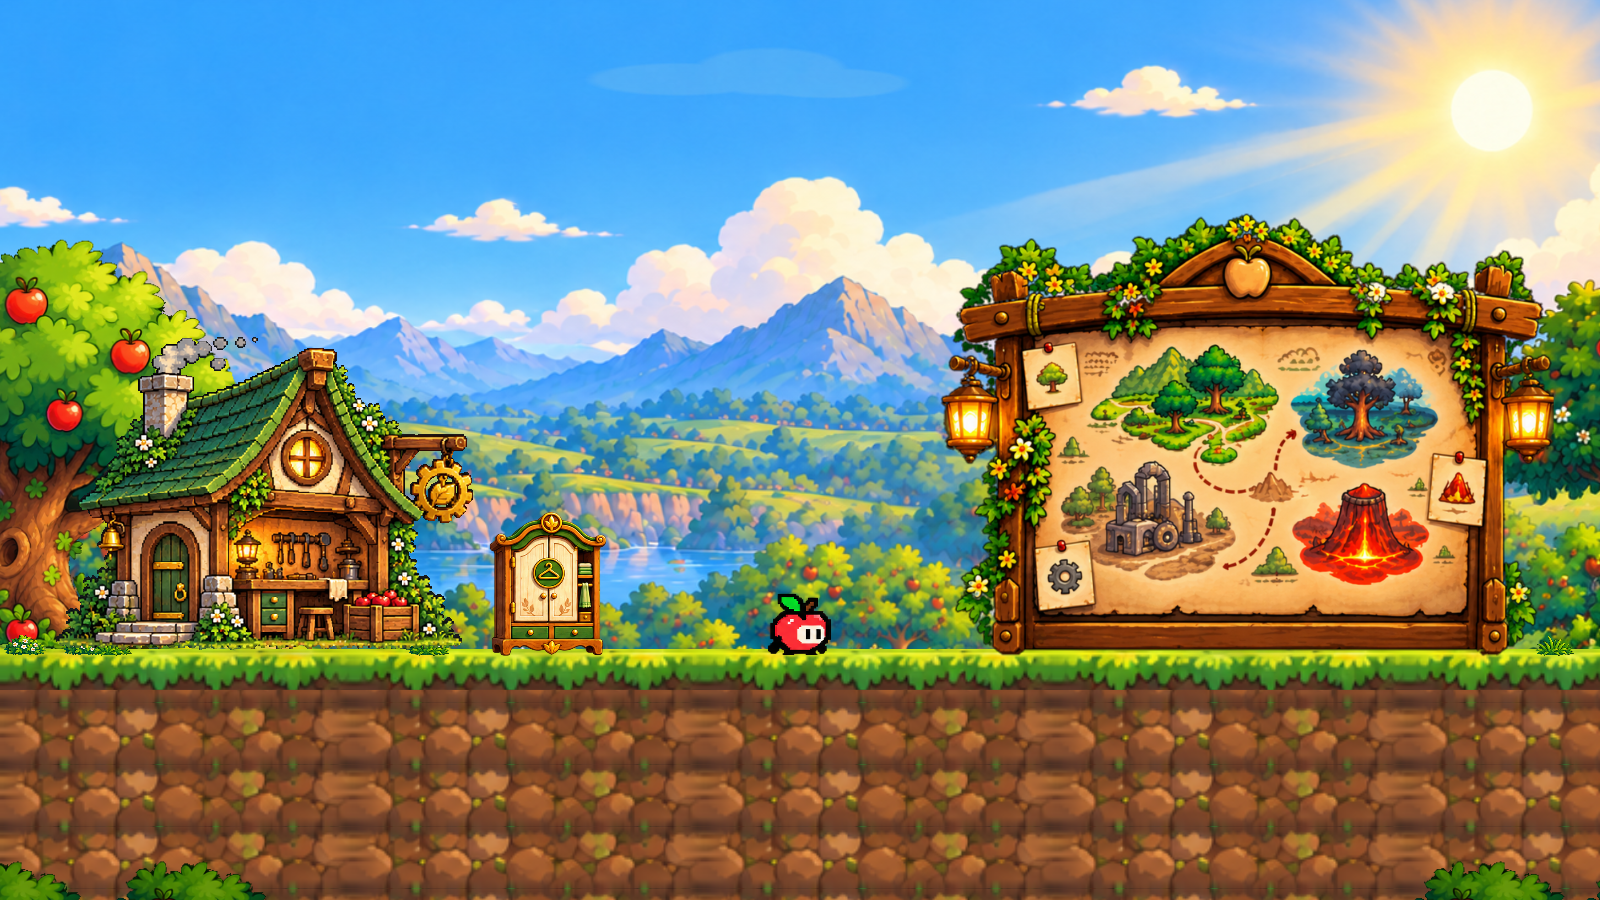
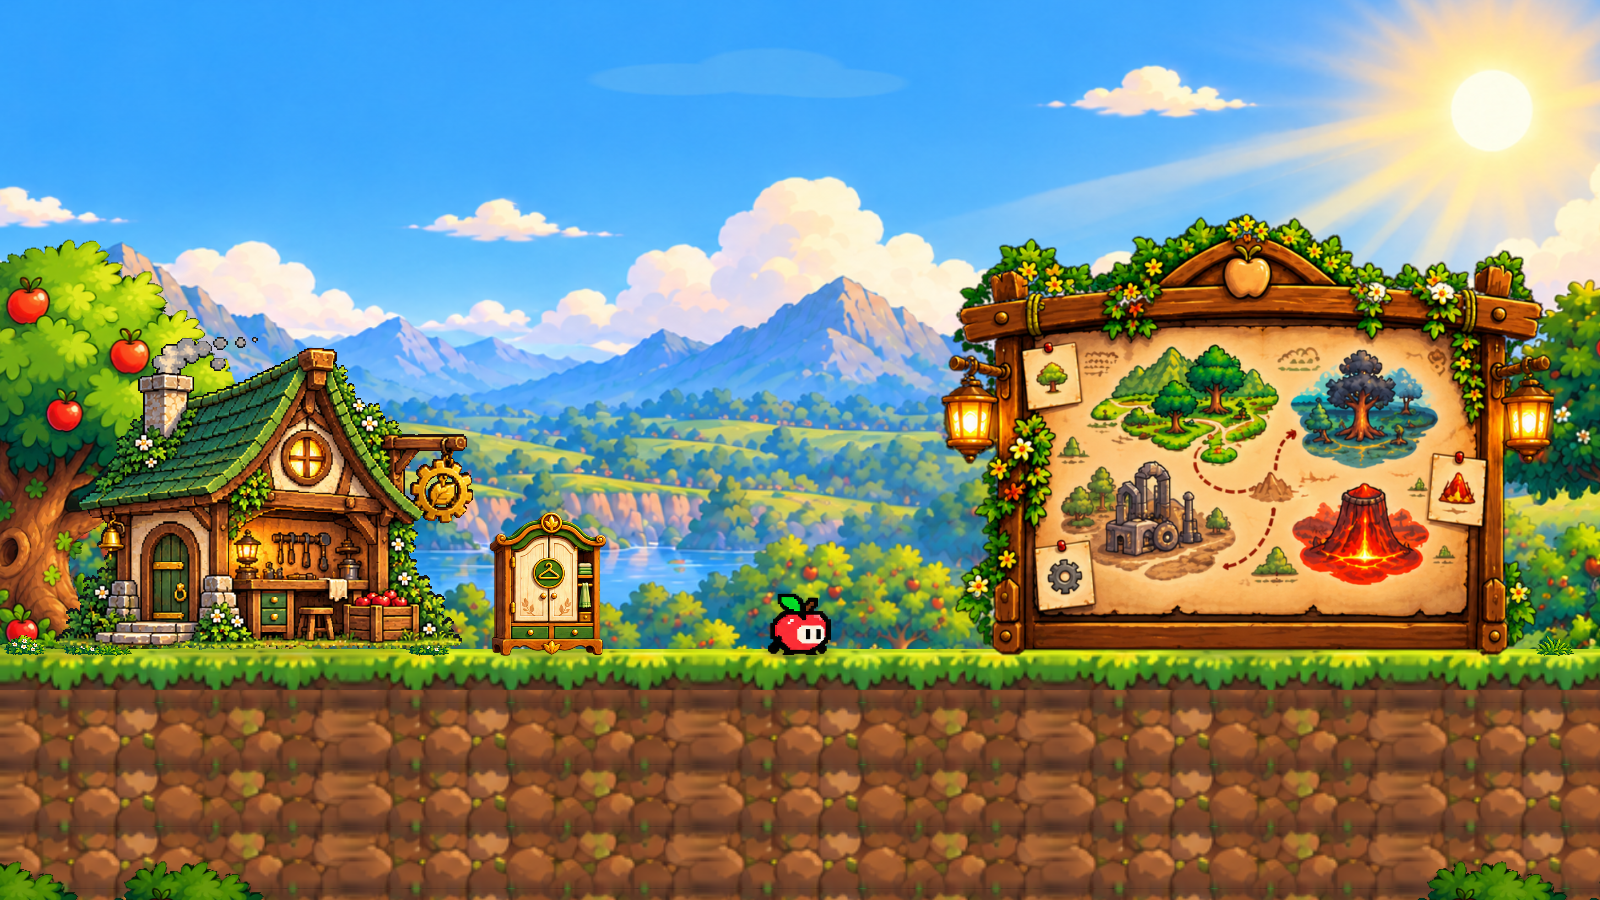
fix: make hub wind and contact shadows visible

diff --git a/Assets/_Trapple/Editor/LivingEnvironmentBuilder.cs b/Assets/_Trapple/Editor/LivingEnvironmentBuilder.cs
@@ -74,6 +74,85 @@ namespace Trapple.Editor
             File.WriteAllText(Review + "Integration.txt", "PASS: installed twice; identical scene serialization; no missing references; collider and interaction invariants intact.\n");
         }
 
+        [MenuItem("Trapple/Hub/Refresh Wind and Shadow Visibility")]
+        public static void RefreshVisibility()
+        {
+            if (EditorApplication.isPlayingOrWillChangePlaymode) throw new InvalidOperationException("Stop Play Mode first.");
+            var scene = SceneManager.GetActiveScene();
+            if (scene.path != HubSceneFlowController.HubScenePath)
+                throw new InvalidOperationException("Open the Hub scene before refreshing its effects.");
+            var colliders = Components<Collider2D>(scene).ToDictionary(item => item,
+                item => EditorJsonUtility.ToJson(item) + EditorJsonUtility.ToJson(item.transform));
+            ContactMaterial();
+            UpgradePrefabVisibility();
+            UpgradeVisibility(scene.GetRootGameObjects());
+            Validate(scene);
+            foreach (var pair in colliders)
+                if (pair.Value != EditorJsonUtility.ToJson(pair.Key) + EditorJsonUtility.ToJson(pair.Key.transform))
+                    throw new InvalidOperationException("Visibility refresh changed collision.");
+            if (!EditorSceneManager.SaveScene(scene)) throw new InvalidOperationException("Could not save refreshed Hub.");
+            AssetDatabase.SaveAssets();
+            Debug.Log("LIVING ENVIRONMENT VISIBILITY PASS: visible foliage motion and broad soft contact shadows; scene layout preserved.");
+        }
+
+        public static void RefreshVisibilityAndVerify()
+        {
+            EditorSceneManager.OpenScene(HubSceneFlowController.HubScenePath, OpenSceneMode.Single);
+            RefreshVisibility();
+            string first = File.ReadAllText(HubSceneFlowController.HubScenePath);
+            RefreshVisibility();
+            if (first != File.ReadAllText(HubSceneFlowController.HubScenePath))
+                throw new InvalidOperationException("Visibility refresh is not idempotent.");
+        }
+
+        private static Material ContactMaterial()
+        {
+            var material = Material("ContactShadow", "Trapple/Sprites/Environment Contact Shadow");
+            var sprite = Sprite("Assets/_Trapple/Art/Hub/Glow.png");
+            Rect rect = sprite.textureRect;
+            material.SetVector("_SpriteUV", new Vector4(rect.x / sprite.texture.width, rect.y / sprite.texture.height,
+                rect.width / sprite.texture.width, rect.height / sprite.texture.height));
+            EditorUtility.SetDirty(material);
+            return material;
+        }
+
+        private static void UpgradePrefabVisibility()
+        {
+            if (AssetDatabase.LoadAssetAtPath<GameObject>(PrefabPath) == null) return;
+            var contents = PrefabUtility.LoadPrefabContents(PrefabPath);
+            try { UpgradeVisibility(new[] { contents }); PrefabUtility.SaveAsPrefabAsset(contents, PrefabPath); }
+            finally { PrefabUtility.UnloadPrefabContents(contents); }
+        }
+
+        private static void UpgradeVisibility(IEnumerable<GameObject> roots)
+        {
+            var material = AssetDatabase.LoadAssetAtPath<Material>(MaterialRoot + "ContactShadow.mat");
+            foreach (var root in roots)
+            {
+                foreach (var wind in root.GetComponentsInChildren<EnvironmentWindController>(true))
+                {
+                    var data = new SerializedObject(wind);
+                    data.FindProperty("strength").floatValue = wind.name == "Apple tree frame" ? .018f :
+                        wind.name == "Meadow flowers" ? .03f : wind.name == "Low foreground foliage" ? .016f : .035f;
+                    data.ApplyModifiedPropertiesWithoutUndo(); Record(wind);
+                }
+                foreach (var shadow in root.GetComponentsInChildren<AppiGroundShadow>(true))
+                {
+                    var data = new SerializedObject(shadow);
+                    data.FindProperty("groundedSize").vector2Value = new Vector2(1.25f, .23f);
+                    data.FindProperty("airborneSize").vector2Value = new Vector2(.85f, .29f);
+                    data.FindProperty("groundedOpacity").floatValue = .44f;
+                    data.FindProperty("airborneOpacity").floatValue = .09f;
+                    data.ApplyModifiedPropertiesWithoutUndo(); Record(shadow);
+                    var renderer = shadow.GetComponent<SpriteRenderer>();
+                    renderer.sharedMaterial = material; Record(renderer);
+                }
+                foreach (var renderer in root.GetComponentsInChildren<SpriteRenderer>(true))
+                    if (renderer.name.EndsWith(" contact", StringComparison.Ordinal))
+                    { renderer.sharedMaterial = material; Record(renderer); }
+            }
+        }
+
         private static T[] Components<T>(Scene scene) where T : Component => scene.GetRootGameObjects()
             .SelectMany(root => root.GetComponentsInChildren<T>(true)).ToArray();
         private static Sprite Sprite(string path) => AssetDatabase.LoadAllAssetsAtPath(path).OfType<Sprite>().FirstOrDefault()
@@ -102,7 +181,9 @@ namespace Trapple.Editor
         private static Material Material(string file, string shaderName)
         {
             var shader = Shader.Find(shaderName);
-            if (shader == null || ShaderUtil.ShaderHasError(shader)) throw new InvalidOperationException("Shader failed: " + shaderName);
+            if (shader == null) throw new InvalidOperationException("Shader missing: " + shaderName);
+            if (ShaderUtil.ShaderHasError(shader)) throw new InvalidOperationException("Shader failed: " + shaderName + "\n" +
+                string.Join("\n", ShaderUtil.GetShaderMessages(shader).Select(item => item.message)));
             var material = AssetDatabase.LoadAssetAtPath<Material>(MaterialRoot + file + ".mat");
             if (material == null) { material = new Material(shader); AssetDatabase.CreateAsset(material, MaterialRoot + file + ".mat"); }
             return material;
@@ -113,12 +194,13 @@ namespace Trapple.Editor
             Directory.CreateDirectory(MaterialRoot); Directory.CreateDirectory(ParticleRoot); AssetDatabase.Refresh();
             Material("FoliageWind", "Trapple/Sprites/Environment Wind");
             Material("LakeShimmer", "Trapple/Sprites/Environment Water Shimmer");
-            // Shared premultiplied sprite material for all contact shadows, clouds, particles and halos.
+            // Clouds, particles and halos retain the original glow; shadows use their own footprint.
             Material("SoftSprites", "Sprites/Default");
+            ContactMaterial();
             Particle("LeafParticle", Sprite("Assets/_Trapple/Art/Hub/Leaf.png"), new Vector2(.14f, .07f), Color.white, 7);
             Particle("PollenParticle", Sprite("Assets/_Trapple/Art/Hub/Glow.png"), Vector2.one * .065f, new Color(1, .91f, .55f), 7);
             Particle("SmokeParticle", Sprite("Assets/_Trapple/Art/Hub/Glow.png"), Vector2.one * .45f, new Color(.76f, .79f, .78f), 7);
-            if (AssetDatabase.LoadAssetAtPath<GameObject>(PrefabPath) != null) return;
+            if (AssetDatabase.LoadAssetAtPath<GameObject>(PrefabPath) != null) { UpgradePrefabVisibility(); return; }
             var root = new GameObject(Name);
             try
             {
@@ -137,10 +219,10 @@ namespace Trapple.Editor
                     var grass = Visual("Independent meadow grass", root.transform,
                         Sprite("Assets/_Trapple/Resources/AppleMeadow/Grass.png"), new Vector2(x, .14f),
                         new Vector2(.65f, .32f), 4, Color.white, AssetDatabase.LoadAssetAtPath<Material>(MaterialRoot + "FoliageWind.mat"));
-                    grass.gameObject.AddComponent<EnvironmentWindController>().Configure(.007f, .18f, x * 2.37f);
+                    grass.gameObject.AddComponent<EnvironmentWindController>().Configure(.035f, .18f, x * 2.37f);
                 }
-                var shadow = Visual("Appi ground shadow", root.transform, glow, Vector2.zero, new Vector2(.85f, .14f), 8,
-                    new Color(.16f, .24f, .18f, .3f), soft);
+                var shadow = Visual("Appi ground shadow", root.transform, glow, Vector2.zero, new Vector2(1.25f, .23f), 8,
+                    new Color(.16f, .24f, .18f, .44f), AssetDatabase.LoadAssetAtPath<Material>(MaterialRoot + "ContactShadow.mat"));
                 shadow.gameObject.AddComponent<AppiGroundShadow>();
                 Array(master, "foliage", root.GetComponentsInChildren<EnvironmentWindController>());
                 Array(master, "cloudLayers", root.GetComponentsInChildren<ParallaxLayer>());
@@ -191,7 +273,7 @@ namespace Trapple.Editor
                 renderer.sharedMaterial = foliageMaterial; Record(renderer);
                 var wind = renderer.GetComponent<EnvironmentWindController>() ?? renderer.gameObject.AddComponent<EnvironmentWindController>();
                 bool tree = renderer.name == "Apple tree frame";
-                wind.Configure(tree ? .0018f : .004f, tree ? .62f : .22f, renderer.transform.position.x * 2.37f);
+                wind.Configure(tree ? .018f : .016f, tree ? .62f : .22f, renderer.transform.position.x * 2.37f);
                 Record(wind);
             }
             var scenery = art.GetComponentsInChildren<SpriteRenderer>().Single(item => item.name == "Apple Meadow scenery");
@@ -227,6 +309,7 @@ namespace Trapple.Editor
             Array(master, "lights", environment.GetComponentsInChildren<LightFlicker2D>());
             Array(master, "staticShadows", environment.GetComponentsInChildren<SpriteRenderer>().Where(item => item.name.EndsWith(" contact", StringComparison.Ordinal)));
             Set(master, "water", water); Set(master, "playerShadow", shadow);
+            UpgradeVisibility(scene.GetRootGameObjects());
         }
 
         // Normalized source image coordinates, top-left origin; preserves authored facade scale.

diff --git a/Assets/_Trapple/Tests/PlayMode/LivingEnvironmentTests.cs b/Assets/_Trapple/Tests/PlayMode/LivingEnvironmentTests.cs
@@ -192,6 +192,85 @@ namespace Trapple.Tests
         }
 
         [UnityTest]
+        public IEnumerator GroundShadowIsVisibleAroundAppiAtGameplayScale()
+        {
+            if (SystemInfo.graphicsDeviceType == UnityEngine.Rendering.GraphicsDeviceType.Null) Assert.Ignore("Graphics required.");
+            environment.SetEffectsEnabled(false);
+            player.GetComponent<PlayerSpriteAnimator>().enabled = false;
+            var camera = Camera.main;
+            camera.GetComponent<HubCameraController>().enabled = false;
+            shadow.enabled = true; shadow.Refresh();
+            Color32[] withShadow = ReadPixels(camera, 1600, 900);
+            shadow.Presentation.enabled = false;
+            Color32[] withoutShadow = ReadPixels(camera, 1600, 900);
+            int visible = 0, strongest = 0;
+            for (int i = 0; i < withShadow.Length; i++)
+            {
+                int darkening = (withoutShadow[i].r + withoutShadow[i].g + withoutShadow[i].b -
+                    withShadow[i].r - withShadow[i].g - withShadow[i].b) / 3;
+                if (darkening >= 10) visible++;
+                strongest = Mathf.Max(strongest, darkening);
+            }
+            Debug.Log("CONTACT SHADOW VISIBILITY: exposed pixels=" + visible + ", max darkening=" + strongest + "/255 at 1600x900.");
+            Assert.That(visible, Is.GreaterThan(80), "The shadow must remain visible after Appi covers its center.");
+            Assert.That(strongest, Is.GreaterThan(20), "A technically enabled but imperceptible shadow is insufficient.");
+            yield return null;
+        }
+
+        [UnityTest]
+        public IEnumerator AuthoredWindMovesCanopyByVisiblePixelsAtGameplayScale()
+        {
+            if (SystemInfo.graphicsDeviceType == UnityEngine.Rendering.GraphicsDeviceType.Null) Assert.Ignore("Graphics required.");
+            var tree = Object.FindObjectsByType<EnvironmentWindController>().Single(item => item.name == "Apple tree frame").GetComponent<SpriteRenderer>();
+            var actor = new GameObject("Wind visibility render", typeof(SpriteRenderer));
+            var cameraObject = new GameObject("Wind visibility camera", typeof(Camera));
+            try
+            {
+                actor.transform.position = new Vector3(1000, 1000, 0); actor.transform.localScale = tree.transform.lossyScale;
+                var renderer = actor.GetComponent<SpriteRenderer>(); renderer.sprite = tree.sprite; renderer.sharedMaterial = tree.sharedMaterial;
+                var properties = new MaterialPropertyBlock(); tree.GetPropertyBlock(properties);
+                Vector4 wind = properties.GetVector("_Wind"); wind.x = 0; wind.w = 0;
+                properties.SetVector("_Wind", wind); renderer.SetPropertyBlock(properties);
+                var camera = cameraObject.GetComponent<Camera>(); camera.enabled = false;
+                camera.transform.position = new Vector3(1000, 1000, -10); camera.orthographic = true;
+                // A square crop with exactly the same pixels per world unit as the actual 900p Hub.
+                camera.orthographicSize = Camera.main.orthographicSize * 512f / 900f;
+                camera.clearFlags = CameraClearFlags.SolidColor; camera.backgroundColor = new Color(.1f, .12f, .15f);
+                Color32[] first = ReadPixels(camera, 512, 512);
+                wind.w = Mathf.PI; properties.SetVector("_Wind", wind); renderer.SetPropertyBlock(properties);
+                Color32[] second = ReadPixels(camera, 512, 512);
+                Bounds bounds = renderer.bounds;
+                int left = Mathf.RoundToInt(camera.WorldToViewportPoint(bounds.min + Vector3.right * bounds.size.x * .2f).x * 512);
+                int right = Mathf.RoundToInt(camera.WorldToViewportPoint(bounds.min + Vector3.right * bounds.size.x * .8f).x * 512);
+                int bottom = Mathf.RoundToInt(camera.WorldToViewportPoint(bounds.min + Vector3.up * bounds.size.y * .77f).y * 512);
+                int top = Mathf.RoundToInt(camera.WorldToViewportPoint(bounds.min + Vector3.up * bounds.size.y * .92f).y * 512);
+                int visibleRows = 0, maxShift = 0;
+                for (int y = Mathf.Max(0, bottom); y <= Mathf.Min(511, top); y++)
+                {
+                    long bestError = long.MaxValue; int bestShift = 0;
+                    // Rendered-image correlation measures actual movement, not just a configured float.
+                    for (int shift = -16; shift <= 16; shift++)
+                    {
+                        long error = 0;
+                        for (int x = Mathf.Max(16, left); x <= Mathf.Min(495, right); x++)
+                        {
+                            Color32 a = first[y * 512 + x], b = second[y * 512 + x + shift];
+                            error += Mathf.Abs(a.r - b.r) + Mathf.Abs(a.g - b.g) + Mathf.Abs(a.b - b.b);
+                        }
+                        if (error < bestError || error == bestError && Mathf.Abs(shift) < Mathf.Abs(bestShift))
+                        { bestError = error; bestShift = shift; }
+                    }
+                    if (Mathf.Abs(bestShift) >= 2) visibleRows++;
+                    maxShift = Mathf.Max(maxShift, Mathf.Abs(bestShift));
+                }
+                Debug.Log("WIND VISIBILITY: canopy rows moving >=2 pixels=" + visibleRows + ", max shift=" + maxShift + " at 900p Hub scale.");
+                Assert.That(visibleRows, Is.GreaterThanOrEqualTo(12), "Authored wind should be visible at gameplay scale, not only at exaggerated test strength.");
+            }
+            finally { Object.Destroy(actor); Object.Destroy(cameraObject); }
+            yield return null;
+        }
+
+        [UnityTest]
         public IEnumerator CaptureEnvironmentInPlayMode()
         {
             if (SystemInfo.graphicsDeviceType == UnityEngine.Rendering.GraphicsDeviceType.Null) Assert.Ignore("A graphics device is required for visual QA.");
@@ -218,6 +297,25 @@ namespace Trapple.Tests
                 camera.targetTexture = target; camera.Render(); RenderTexture.active = target;
                 texture.ReadPixels(new Rect(0, 0, 1600, 900), 0, 0); texture.Apply();
                 File.WriteAllBytes("Builds/EnvironmentReview/" + name + ".png", texture.EncodeToPNG());
+            }
+            finally
+            {
+                camera.targetTexture = previous; RenderTexture.active = active;
+                target.Release(); Object.Destroy(target); Object.Destroy(texture);
+            }
+        }
+
+        private static Color32[] ReadPixels(Camera camera, int width, int height)
+        {
+            var previous = camera.targetTexture;
+            var active = RenderTexture.active;
+            var target = new RenderTexture(width, height, 24);
+            var texture = new Texture2D(width, height, TextureFormat.RGB24, false);
+            try
+            {
+                camera.targetTexture = target; camera.Render(); RenderTexture.active = target;
+                texture.ReadPixels(new Rect(0, 0, width, height), 0, 0); texture.Apply();
+                return texture.GetPixels32();
             }
             finally
             {

diff --git a/Assets/_Trapple/Scripts/Hub/Environment/AppiGroundShadow.cs b/Assets/_Trapple/Scripts/Hub/Environment/AppiGroundShadow.cs
@@ -9,10 +9,10 @@ namespace Trapple.Hub.LivingEnvironment
         [SerializeField] private SpriteRenderer characterArt;
         [SerializeField] private LayerMask groundLayers = 1 << 6;
         [SerializeField, Min(.1f)] private float maxDistance = 5f;
-        [SerializeField] private Vector2 groundedSize = new Vector2(.85f, .14f);
-        [SerializeField] private Vector2 airborneSize = new Vector2(.65f, .23f);
-        [SerializeField, Range(0f, 1f)] private float groundedOpacity = .3f;
-        [SerializeField, Range(0f, 1f)] private float airborneOpacity = .06f;
+        [SerializeField] private Vector2 groundedSize = new Vector2(1.25f, .23f);
+        [SerializeField] private Vector2 airborneSize = new Vector2(.85f, .29f);
+        [SerializeField, Range(0f, 1f)] private float groundedOpacity = .44f;
+        [SerializeField, Range(0f, 1f)] private float airborneOpacity = .09f;
         [SerializeField, Min(.1f)] private float fadeHeight = 2.8f;
         [SerializeField, Min(.001f)] private float surfaceOffset = .025f;
         private readonly RaycastHit2D[] hits = new RaycastHit2D[12];

diff --git a/Assets/_Trapple/Tests/EditMode/LivingEnvironmentShaderTests.cs b/Assets/_Trapple/Tests/EditMode/LivingEnvironmentShaderTests.cs
@@ -10,7 +10,7 @@ namespace Trapple.Tests
         [Test]
         public void SavedMaterialsUseSupportedBuiltInShadersAndParticlePrefabsHaveNoCollision()
         {
-            foreach (string name in new[] { "FoliageWind", "LakeShimmer", "SoftSprites" })
+            foreach (string name in new[] { "FoliageWind", "LakeShimmer", "SoftSprites", "ContactShadow" })
             {
                 var material = AssetDatabase.LoadAssetAtPath<Material>("Assets/_Trapple/Art/Hub/Environment/" + name + ".mat");
                 Assert.That(material, Is.Not.Null);

diff --git a/Assets/_Trapple/Scripts/Hub/Environment/EnvironmentWindController.cs b/Assets/_Trapple/Scripts/Hub/Environment/EnvironmentWindController.cs
@@ -7,7 +7,7 @@ namespace Trapple.Hub.LivingEnvironment
     public sealed class EnvironmentWindController : MonoBehaviour
     {
         [SerializeField, Min(0f)] private float speed = 1.2f;
-        [SerializeField, Range(0f, .02f)] private float strength = .004f;
+        [SerializeField, Range(0f, .05f)] private float strength = .018f;
         [SerializeField, Min(.01f)] private float frequency = 5f;
         [SerializeField] private float phase;
         [Tooltip("Normalized sprite height below which pixels stay fixed. Use .6 for a tree canopy.")]

diff --git a/Docs/LivingEnvironment.md b/Docs/LivingEnvironment.md
@@ -16,6 +16,11 @@ does not rebuild the Hub or write scene/prefab YAML. It refuses unsaved open sce
 and Play Mode. Run **Trapple → Hub → Install Living Environment** only to reinstall;
 the committed Hub is already configured.
 
+For an already-open Hub, **Trapple → Hub → Refresh Wind and Shadow Visibility**
+updates just the visual settings and the reusable system prefab through Unity's
+APIs. It preserves the current scene layout and checks collider invariants. Stop
+Play Mode and refresh Assets first when changing scripts externally.
+
 The scene audit found one orthographic camera (size 6.8), one `Default` sorting
 layer, the existing `HubCameraController`, `PlayerController`,
 `PlayerSpriteAnimator`, workshop transitions and map interactions. Existing
@@ -60,6 +65,9 @@ Select **Living Environment** in Hub:
   to zero at the left/right edges. These materials are for unatlased sprites;
   rotation/tight packing in a future Sprite Atlas would need a corresponding
   UV-space implementation before reuse.
+  Scene strengths are 0.018 for the tree, 0.016 for bushes, 0.03 for flowers and
+  0.035 for grass. The base mask is applied once; squaring it previously reduced
+  most canopy movement below a visible pixel at the Hub camera scale.
 - `ParallaxLayer` on each cloud: camera reference, Depth, Drift, Wrap Width.
   Depth 0 is infinitely distant and compensates camera movement fully; 1 is the
   gameplay plane. Distant objects consequently move less on screen.
@@ -71,6 +79,9 @@ Select **Living Environment** in Hub:
 - `AppiGroundShadow`: capsule and art references, Ground Layers, Max Distance,
   ground/air sizes and opacities, Fade Height and Surface Offset. The ray starts
   just above the feet so slightly embedded contacts still resolve correctly.
+  The contact material supplies a broad, soft ellipse instead of reusing the
+  lantern glow's rapidly fading alpha. Ground size is 1.25 × 0.23 units with
+  opacity 0.44; airborne size is 0.85 × 0.29 with opacity 0.09.
 - `EnvironmentWaterShimmer` on `Apple Meadow scenery`: Strength and Speed.
   `LakeShimmer.mat` exposes the conservative water UV rectangle.
 
@@ -86,11 +97,11 @@ Runtime scripts in `Assets/_Trapple/Scripts/Hub/Environment/`:
 - `EnvironmentWaterShimmer.cs`
 - `LivingEnvironmentController.cs`
 
-Shaders: `Assets/_Trapple/Shaders/EnvironmentWind.shader` and
-`EnvironmentWater.shader`.
+Shaders: `Assets/_Trapple/Shaders/EnvironmentWind.shader`,
+`EnvironmentWater.shader` and `EnvironmentContactShadow.shader`.
 
 Materials in `Assets/_Trapple/Art/Hub/Environment/`:
-`FoliageWind.mat`, `LakeShimmer.mat`, `SoftSprites.mat`.
+`FoliageWind.mat`, `LakeShimmer.mat`, `SoftSprites.mat`, `ContactShadow.mat`.
 
 Prefabs in `Assets/_Trapple/Prefabs/Hub/Environment/`:
 `LivingEnvironment.prefab`, `LeafParticle.prefab`, `PollenParticle.prefab`,
@@ -143,6 +154,16 @@ The commands use `-batchmode -force-d3d11 -runTests -testPlatform EditMode` or
 user's Unity Editor remained open. The local Hub retains the user's pre-existing
 map placement/scale overrides; those changes and the existing forest-scene edits
 are excluded from the feature commit.
+
+The visibility correction was additionally verified on **DirectX 12**, matching
+the user's open editor: **9/9 environment Play Mode tests** and **32/32 Edit Mode
+tests passed**. Two new render-based tests fail on the original presentation:
+the canopy had no rows moving by at least two pixels at 900p Hub scale, and Appi
+left only 10 visibly darkened shadow pixels, with a maximum change of 16/255.
+After correction, 64 canopy rows move by at least two pixels (maximum 9 pixels),
+and the shadow exposes 389 pixels with at least 10/255 darkening (maximum 54/255).
+The latter comparison renders the real character over the shadow, so a shadow
+hidden behind Appi cannot pass. Full evidence is in `Builds/VisibilityReview`.
 
 The scenery plate combines sky, mountains, distant trees and lake into one opaque
 PNG. It is deliberately not translated, stretched, cut into fake depth layers,
